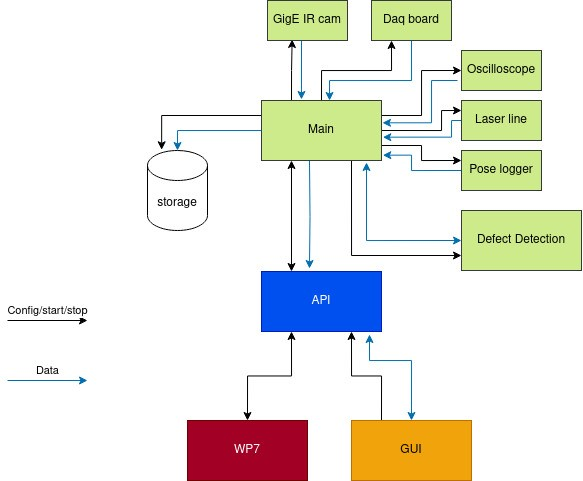
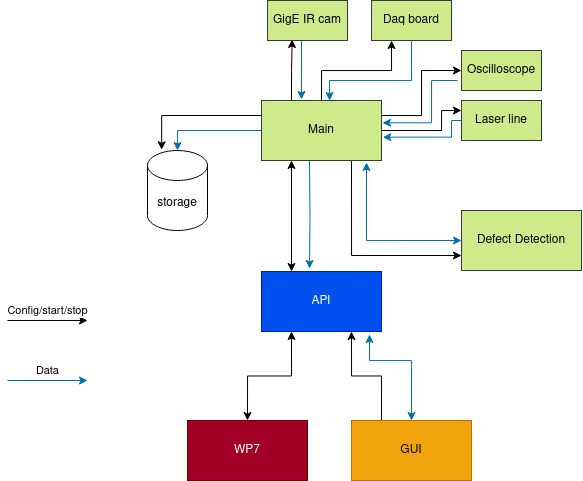
Doc Update M30

Changed region(s): [[0.7101, 0.3119, 0.9571, 0.4054], [0.6484, 0.3119, 0.7101, 0.343]]

diff --git a/docs/README.md b/docs/README.md
@@ -3,7 +3,7 @@
 ## General Description
 This solution aims to predict/estimate the presence of defects during the welding process using process parameters monitored in real time. The goal is to reduce the production time and waste when a defective weld occurs.
 
-It is deployed in two stages. First, several sensors are selected and integrated on the welding torch to obtain a comprehensive monitoring of the welding process. The sensors will look at different process parameters like welding speed, wire feed rate, welding electrical signals, thermal info of bead and base plate… The system will synchronize the data temporally and spatially, creating valuable and complete datasets.
+It is deployed in two stages. Firstly, based on the type of welding process and the specific welding equipment, several sensors are selected and integrated on the torch to obtain comprehensive monitoring of the welding process. The sensors will look at different process parameters like welding speed, wire feed rate, welding electrical signals, thermal info of bead and base plate… The system will synchronize the data temporally and spatially, creating good datasets that can be analyzed and correlated with common defects.
 
 On a second stage, this data is analyzed and correlated with NDT data to create data models capable to detect high probabilities of defect appearence in real time. The model is deployed following an edge computing paradigm, i.e. next to the monitoring system.
 
@@ -14,17 +14,17 @@ This solution requires specific HW. The data acquisition SW and the defect detec
 
 1. **Welding process monitoring system**: Main feature of the *Welding Process Inspector*. It provides the technical means (HW & SW) to monitorize all relevant parameters of a welding processassutring a good synchroniztion.
 
-2. **Enables implementation of AI-based quality assurance algorithms**: Both the HW and the SW are designed to implement quality control algorithms, feeding them with real-time processs data.
+2. **Flexibility**: The monitoring system covers a great variety of sensors and communication protocols (e.g., TCP/IP or Profibus).
 
-3. **Early detection of defects**: Time and scrap reduction in rework tasks. The monitoring system can be used to acquire welding data. These data is susceptible to be used to elaborate a data model of the welding process that should be able to detect when the welding process is out of the optimal parameters window and, therefore, return the probability of defects appearing in time real.
+3. **Adaptability**: The monitoring system is adaptable to any metallic welding process. The sensors and protocols used to monitoring the welding process can be selected for each specific case (i.e. different welding proccesses, different welding stations...)
 
-4. **Flexibility**: The monitoring system covers a great variety of sensors and communication protocols (e.g., TCP/IP or Profibus).
+4. **Scalability**: The system eases to add new sensors. The monitoring HW and SW can be updated and configured to handle a great number of sensors.
 
-5. **Scalability**: The system eases to add new sensors. The monitoring HW and SW can be updated and cofnigured to handle a great number of sensors.
+5. **Contribution to the digitalization of the industry**: Process variables are digitally acquired and stored. The monitored data can be seen as a kind of digital twin of the welding process, enabling a digital traceability of each welded bead.
 
-6. **Adaptability**: The monitoring system is adaptable to any metallic welding process. The sensors and protocols used to monitoring the welding process can be selected for each specific case (i.e. d+different welding proccesses, diferent weldign stations...)
+6. **Early detection of defects**: Time and scrap reduction in rework tasks. The monitoring system can be used to acquire welding data. These data is susceptible to be used to elaborate a data model of the welding process that should be able to detect when the welding process is out of the optimal parameters window and, therefore, return the probability of defects appearing in real time.
 
-7. **Contribution to the digitalization of the industry**: Process variables are digitally acquired and stored. The monitored data can be seen as the digital twin of the welding process, enabling a digital traceability of each welded bead.
+7. **Enables implementation of AI-based quality assurance algorithms**: Both the HW and the SW are designed to implement quality control algorithms, feeding them with real-time processs data.
 
 8. **Possibility to set alarms when out of quality limits**: The *Welding Process Inpector* provides the data processing and the interface required to implement alarms when abnormal process behaviours are being produced.
 
@@ -40,9 +40,8 @@ This solution requires specific HW. The data acquisition SW and the defect detec
     - *Main*: Synchronizes data acquisition from the different internal modules (sensors, data storage and defect detection algorithms).
     - *GigE IR cam*: This module enables connection to cameras following GigE/genie cam protocols/standards.
     - *DAQ board*: Data Acquisition Board. Acquire digital and analogue signals, e.g., pyrometers.
-    - *Oscilloscope*: Aaquires analogue signals at a high sampling frequency, i.e., voltage and current of each welding torches.
-    - *Laser line*: retrieves the geometrical data scanned by the laser line profilometer.
-    - *Pose Logger*: Retrieves the position of the welding torches regarding the whole part.
+    - *Oscilloscope*: Acquires analogue signals at a high sampling frequency, i.e., voltage and current of each welding torches.
+    - *Laser line*: retrieves the geometrical data scanned by a laser line profilometer.
     - *Defect Detection Algorithm*: Analises data stream from sensors and warns when anomalies are identified.
     - *Storage*: Data is saved locally in a custom data format.
 - **GUI**: Graphical User Interface. Allows the user to configure the monitoring system and to check the correct operation of the system during welding.
@@ -51,13 +50,13 @@ This solution requires specific HW. The data acquisition SW and the defect detec
 ## Image Overview
 The present section addresses the user interfaces envisioned to interact with the Welding Process Monitoring solution. Two GUIs are defined, one for configuring all devices involved in the data acquisition which also provides some features for online visualization and another one for offline analysis of the recorded data.
 
-![image](./images/WP06-WPI-online-mockup.png "Online GUI (mockup)")
+![image](./images/WP06-WPI-online-interface.png "Online GUI")
 
-Above figure is a design for the GUI in charge of the HW configuration of ZDZW Welding Inspector the and a subsampled online visualization of the welding process (a.k.a. *recorder app*). On the left side you can see the 3 different formats for the visualization of the data that is being recorded, while the right side is reserved for the configuration of the system and to start/stop the recording. The online visualization includes an image viewer for the IR camera and graph and scalar viewers which allow the user to plot desired parameters. The “configuring input/output interfaces” contains the settings of the sensors that are being used for monitoring the welding process. The “Recorded params” section links the process parameters with the sensor that is being used to get their values. The “metadata” section contains relevant logistic information. The GUI allows the user to enable/disable a defect detection model and to load different models. Finally, the GUI offers a couple of buttons to start and stop the recording manually.
+Above figure shows the GUI in charge of the HW configuration of *ZDZW Welding Process Inspector* the and a subsampled online visualization of the welding process (a.k.a. *capturer app*). On the left side you can see the 3 different formats for the visualization of the data that is being recorded, while the right side is reserved for the configuration of the system and to start/stop the recording. The online visualization includes an image viewer for the IR camera and graph and scalar viewers which allow the user to plot desired parameters. The “configuring input/output interfaces” contains the settings of the sensors that are being used for monitoring the welding process. The “Recorded params” section links the process parameters with the sensor that is being used to get their values. The “metadata” section contains relevant logistic information. The GUI allows the user to enable/disable a defect detection model and to load different models. Finally, the GUI offers a couple of buttons to start and stop the recording manually.
 
-![image](./images/WP06-WPI-offline-mockup.png "Offline GUI (mockup)")
+![image](./images/WP06-WPI-offline-interface.png "Offline GUI")
 
-Above figure shows the mockup of the GUI for the offline visualization (a.k.a. *visualizer app*). While the *recorder app* offers a restricted, but online, visualization of the monitored data from the welding process, the *visualizer app* allows skilled personnel to analise the recorded data aand visualize it in different formats. The *recorder app* allows the operator to detect disturbances on the welding process or possible mistakes in the configuration of the monitored system, while the *visualizer app* allows a deeper analysis of the recorded data. In addition to the image and graph viewers already available in the *recorder app*, the *visualizer app* also provides a 3D representation of the process parameters.
+Above figure shows the mockup of the GUI for the offline visualization (a.k.a. *visualizer app*). While the *capturer app* offers a restricted, but online, visualization of the monitored data from the welding process, the *visualizer app* allows skilled personnel to analise the recorded data and visualize it in different formats. The *capturer app* allows the operator to detect disturbances on the welding process or possible mistakes in the configuration of the monitored system, while the *visualizer app* allows a deeper analysis of the recorded data. In addition to the image and graph viewers already available in the *capturer app*, the *visualizer app* also provides a 3D representation of the process parameters.
 
 
 
@@ -69,7 +68,7 @@ The *Welding Process Inspector* relies on a combination of some specific HW and 
 
 A small factor CPU is chosen for the sake of space economy, but guaranteeing minimum requirements to handle the data acquisition SW and capability to deploy data models based on Deep Learning techniques.
 
-To capture the detailed waveform of welding currents and voltages we opted for a *PicoScope* USB oscilloscope. When selecting this device, it is vital to ensure the proper number of channels to cover all welding current and voltage signals and a propper bandwidth to guarantee a right sample rate. These parameters may vary depending on the specific welding technique or welding procedure being monitored.
+To capture the detailed waveform of welding currents and voltages we opted for a *PicoScope* USB oscilloscope. When selecting this device, it is vital to ensure the proper number of channels to cover all welding current and voltage signals and a propper bandwidth to guarantee a right sample rate. These parameters may vary depending on the specific welding technique being monitored.
 
 The welding voltage must be pre-processed at the input of the oscilloscope to adapt the voltage amplitude and to isolate the signal to avoid any electromagnetic interference. To that purpose, a differential voltage probe must be selected for each welding voltage signal. The input range must cover the welding voltage range and the differential output range must fit in the oscilloscope input range.
 
@@ -95,16 +94,8 @@ Below we detail the computation requirements for the user interfaces depicted in
 
 
 
-
-
 ## Installation Procedure
-[
-*Step by step on how to install the application:*
-* *Standalone*
-* *In the Kubernetes platformm using helm charts: description of the different options*
-]
-
-TBD
+All the SW we will be provided to the client pre-installed in the HW selected for the specific client use case. 
 
 ## How To Use
 [*Step by step on how to use the application*]
@@ -114,4 +105,9 @@ TBD
 ## Additional Learning Materials
 [*Links to other learning materials like youtube tutorials or work from WP10*]
 
-TBD
+- [Introduction 1](https://youtu.be/-0fFijQJMHg?si=no6L0VUFBk85MzfD)
+- [Introduction 2](https://youtu.be/-0fFijQJMHg?si=o7Nk6t1FKlyOZ7x1)
+
+
+
+*IN EXPANSION*
